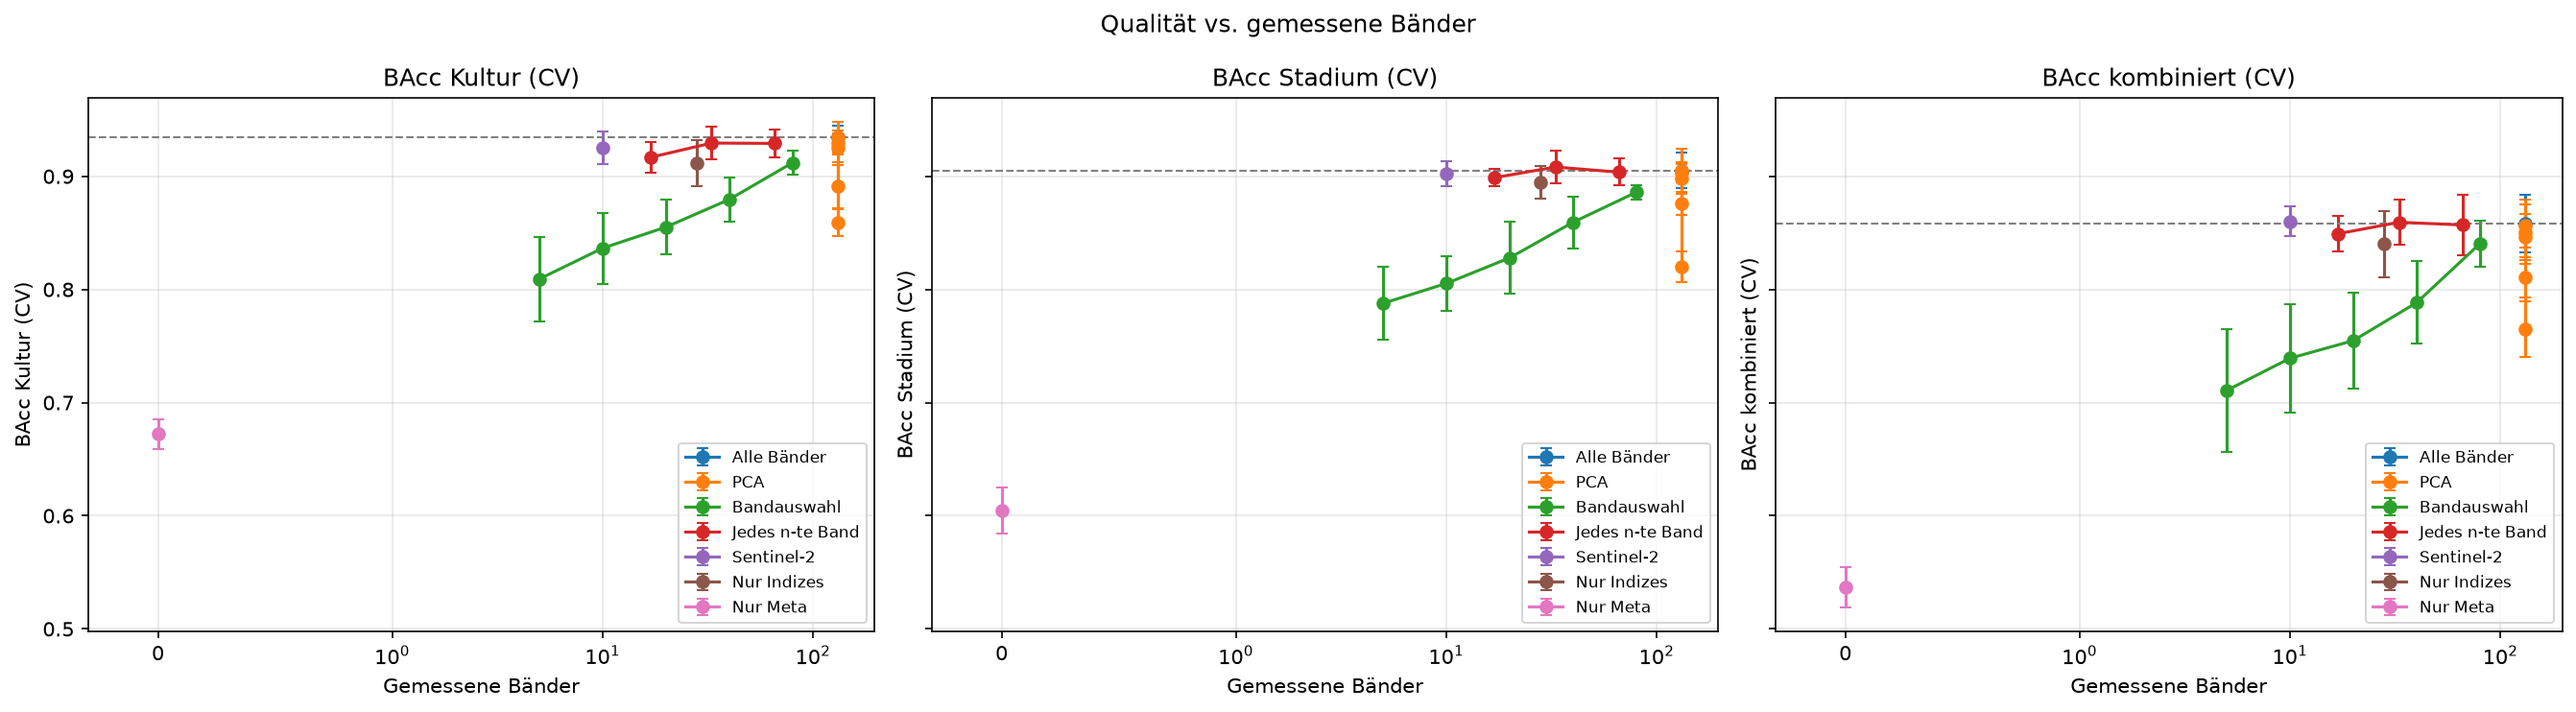
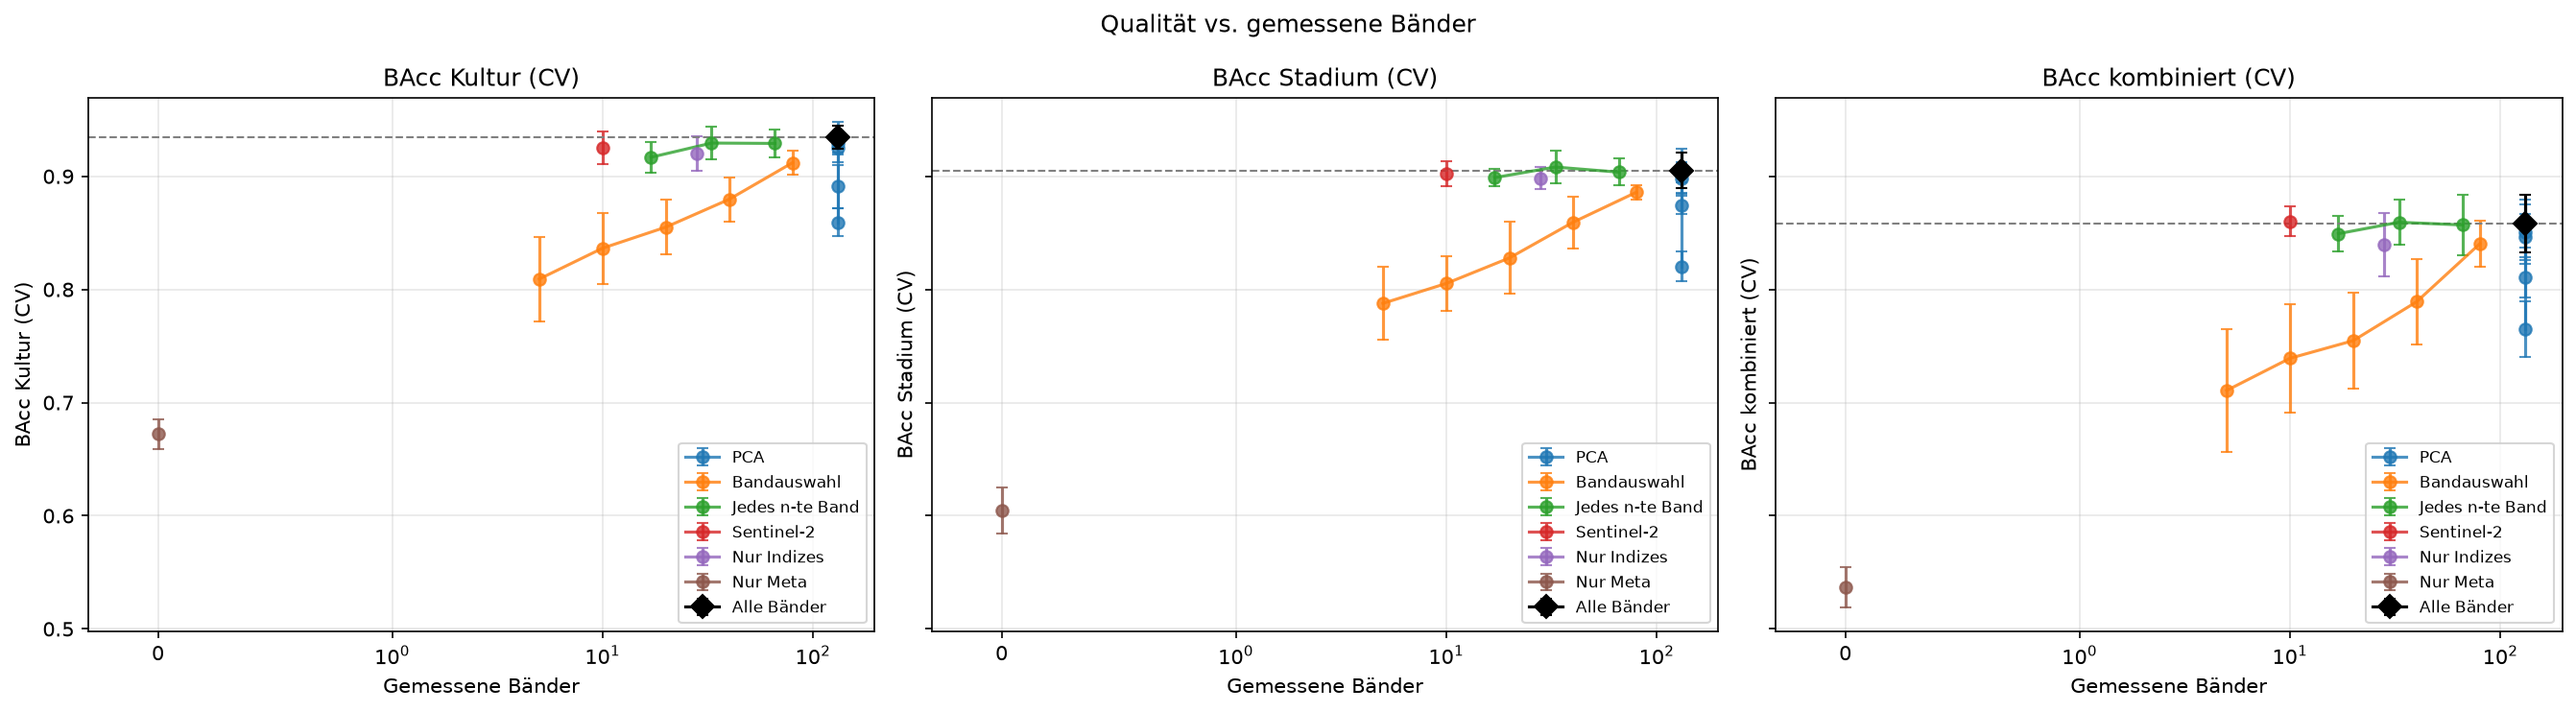
docs: write data reduction chapter of the final report (#227)
Refs #36

## Was
- Kapitel 5 „Datenreduktion“: Vorgehen (gemessene Bänder vs. Merkmale
vs. PCA-Komponenten, sieben Varianten, Auswahlregel), Ergebnisse
(Trade-off-Kurve, Holdout-Tabelle kombiniert + hierarchisch,
PCA-Studie), Bewertung und Grenzen (simuliertes Sentinel-2, Gruppen-CV)
- Quellen Pearlman et al. 2001, ESA SentiWiki

## Review-Hinweis
- **Nach #225 mergen:** Verweise auf `sec:evaluation`, `sec:daten` und
`aneece2018` kommen aus #225 – vorher „??“ im PDF. Das Label
`sec:datenreduktion` ist dafür aus #225 entfernt, beide mergen
konfliktfrei.
- Eingechecktes PDF ist nicht neu gebaut (nach dem Merge einmal
`latexmk`).

diff --git a/reports/abschlussbericht/abschlussbericht.tex b/reports/abschlussbericht/abschlussbericht.tex
@@ -506,14 +506,225 @@ nicht als unabh\"angig belegte Verbesserung oder neues Abgabemodell.
 % der AutoML-Gewinner (Run c99e3915, 0,883) ist als zweites Modell eingefroren.
 
 \section{Datenreduktion}
-% Vollst\"andigen Input und ausgew\"ahlte reduzierte Varianten vergleichen.
-% Anzahl der Eingabeb\"ander, abgeleiteten Features und PCA-Komponenten klar
-% unterscheiden: weniger Komponenten bedeuten nicht weniger ben\"otigte B\"ander.
-% Auswahlverfahren und Einbettung in die Trainingspipeline dokumentieren.
-% Leistung gegen Eingabeumfang als Tabelle oder Plot zeigen, mit gleicher
-% Evaluationsgrundlage; gegebenenfalls Laufzeit und Speicherbedarf erg\"anzen.
-% Den Trade-off bewerten: Welche Reduktion ist bei welchem Leistungsverlust
-% vertretbar? Schlussfolgerungen auf die tats\"achlich gepr\"uften Varianten begrenzen.
+\label{sec:datenreduktion}
+
+Die Datenreduktionsstudie fragt, wie viel spektraler Input f\"ur Kulturart
+und Stadium n\"otig ist. Untersucht wird sie am besten Modell, der RBF-SVM
+auf der kombinierten Klasse, und gegengepr\"uft an der hierarchischen SVM.
+Alle Zahlen sind kombinierte BAcc nach dem Protokoll aus
+Abschnitt~\ref{sec:evaluation}.
+
+\subsection{Vorgehen}
+
+\paragraph{B\"ander, Merkmale und Komponenten.}
+Die Studie unterscheidet drei Gr\"o\ss en. \emph{Gemessene B\"ander} sind
+die B\"ander, die ein Sensor liefern muss. \emph{Merkmale} sind die Spalten,
+die das Modell sieht, einschlie\ss{}lich AEZ und Monat. \emph{Komponenten}
+sind die Achsen einer PCA. Eine PCA verringert nur die Zahl der Merkmale:
+Ihre Komponenten werden aus allen 131 B\"andern berechnet, die weiterhin
+gemessen werden m\"ussen. Bewertet wird die Reduktion deshalb nach
+gemessenen B\"andern.
+
+\paragraph{Varianten.}
+Tabelle~\ref{tab:reduktion-varianten} zeigt die gepr\"uften Familien.
+Ausgew\"ahlt wird entweder durch Lage im Spektrum oder datengetrieben.
+Die Sentinel-2-Variante bildet die zehn 10- und 20-m-B\"ander von
+Sentinel-2 (B2--B8A, B11, B12) nach. Jedes simulierte Band ist der
+Mittelwert der Hyperion-B\"ander innerhalb seiner Bandbreite
+(Rechteckn\"aherung).
+
+\begin{table}[htbp]
+\centering
+\caption{Gepr\"ufte Eingabevarianten der Datenreduktion.}
+\label{tab:reduktion-varianten}
+\small
+\begin{tabularx}{\linewidth}{@{}lXr@{}}
+	\toprule
+	Familie & Varianten & Gemessene B\"ander \\
+	\midrule
+	Alle B\"ander & Referenz & 131 \\
+	PCA & 2, 5, 10, 20, 40 Komponenten; Zusatzstudie 1--80 & 131 \\
+	Univariate Bandauswahl & 5, 10, 20, 40, 80 B\"ander & 5--80 \\
+	Jedes $n$-te Band & $n = 2, 4, 8$ & 66, 33, 17 \\
+	Sentinel-2-Simulation & 10 Oberfl\"achenb\"ander & 10 \\
+	Nur Indizes & 29 Vegetationsindizes & 28 \\
+	Nur Kontext & AEZ und Monat & 0 \\
+	\bottomrule
+\end{tabularx}
+\end{table}
+
+\paragraph{Einbettung und Auswahlregel.}
+Jede Variante ist eine Option der gemeinsamen Vorverarbeitung. PCA und
+Bandauswahl werden innerhalb der Pipeline nur auf dem jeweiligen
+Trainingsfold angepasst. AEZ und Monat sind au\ss{}er in der
+Kontext-Variante immer enthalten. Jede Variante wird mit demselben Raster
+f\"ur $C$ und $\gamma$ eigenst\"andig per CV getunt. Die Auswahlregel war
+vorab festgelegt: Gew\"ahlt wird die Variante mit den wenigsten gemessenen
+B\"andern, die h\"ochstens 0,01 CV-BAcc unter der Referenz liegt. Nur diese
+Variante wird einmal auf dem Holdout bewertet.
+
+\subsection{Ergebnisse}
+
+\begin{figure}[htbp]
+\centering
+\includegraphics[width=\linewidth]{datenreduktion_tradeoff_baender.png}
+\caption{CV-BAcc f\"ur Kulturart, Stadium und kombinierte Klasse je Anzahl
+gemessener B\"ander (logarithmische Achse; Fehlerbalken: Standardabweichung
+\"uber die f\"unf Folds). Schwarze Raute und gestrichelte Linie: alle
+131 B\"ander. PCA-Varianten liegen immer bei 131 B\"andern.}
+\label{fig:reduktion-tradeoff}
+\end{figure}
+
+\paragraph{Breite Abdeckung reicht.}
+Abbildung~\ref{fig:reduktion-tradeoff} zeigt den Zusammenhang zwischen
+Leistung und Eingabeumfang. Gleichm\"a\ss{}ig verteilte B\"ander halten die
+Leistung fast vollst\"andig: Mit jedem vierten Band (33 B\"ander) liegt die
+CV-BAcc bei 0,859, mit jedem achten Band (17) bei 0,849. Die zehn
+Sentinel-2-B\"ander erreichen 0,860, genauso viel wie alle 131 B\"ander
+(0,859). Nach der Auswahlregel ist Sentinel-2 damit die empfohlene Variante.
+
+\paragraph{Einzelne \glqq beste\grqq{} B\"ander reichen nicht.}
+Die univariate Bandauswahl erreicht mit zehn B\"andern nur 0,739 und selbst
+mit 80 B\"andern nur 0,841. Sie bewertet jedes Band einzeln. Deshalb w\"ahlt
+sie benachbarte, nahezu identische B\"ander aus derselben Region und l\"asst
+andere Bereiche aus. Eine Bandauswahl getrennt je Ebene des hierarchischen
+Modells hilft nicht: Bei zehn B\"andern je Ebene umfasst die Vereinigung
+schon 52 B\"ander, und die BAcc bleibt bei etwa 0,69.
+Fachlich ist das plausibel, denn jede Ebene greift auf eine andere Region
+zur\"uck. Die Kulturebene nutzt die Chlorophyllabsorption im Rot, das
+Stadium von Mais und Baumwolle das NIR-Plateau und das von Soja und
+Winterweizen das SWIR2, wo Trocknung und Lignin bei der Reife sichtbar
+werden. Ein Sensor mit Messungen von VIS bis SWIR2 deckt alle diese Regionen
+ab.
+
+\paragraph{Kontext und Indizes.}
+AEZ und Monat allein erreichen nur 0,537 und ersetzen die Spektren nicht.
+Ohne sie f\"allt die SVM aber auf 0,787, sie sind also unverzichtbar.
+Mittlere Albedo oder vorab berechnete Hauptkomponenten bringen nichts
+zus\"atzlich. Die 29 Indizes allein erreichen 0,840.
+Wie n\"utzlich sie sind, h\"angt vom Modell ab. Die SVM gewinnt durch
+zus\"atzliche Indizes nichts (0,848 statt 0,859). Extra Trees,
+HistGradientBoosting und die logistische Regression verbessern sich dagegen
+um 0,015 bis 0,029, weil sie aus einzelnen B\"andern kein Verh\"altnis
+bilden. Sie bleiben trotzdem mindestens 0,03 hinter der SVM.
+
+\paragraph{Validierung.}
+Tabelle~\ref{tab:reduktion-validierung} vergleicht die nach der Regel
+gew\"ahlten Varianten auf dem Holdout. Bei der kombinierten SVM verlieren
+die zehn Sentinel-2-B\"ander 0,009 kombinierte BAcc bei 92\,\% weniger
+gemessenen B\"andern. Die Kulturart wird sogar besser erkannt, das Stadium
+etwas schlechter. Hierarchisch ist das Bild \"ahnlich. Sentinel-2 lag dort
+in der CV knapp au\ss{}erhalb der Regel ($-0{,}012$), wurde aber zum
+Vergleich mitbewertet.
+
+\begin{table}[htbp]
+\centering
+\caption{Holdout-Ergebnisse der gew\"ahlten Varianten (BAcc; CV: kombiniert
+im Trainingsanteil).}
+\label{tab:reduktion-validierung}
+\small
+\begin{tabularx}{\linewidth}{@{}lXrrrrr@{}}
+	\toprule
+	Ansatz & Eingabe & B\"ander & CV & Kultur & Stadium & Kombiniert \\
+	\midrule
+	Kombiniert & alle B\"ander & 131 & 0,859 & 0,920 & 0,913 & \textbf{0,866} \\
+	Kombiniert & Sentinel-2 & 10 & 0,860 & 0,931 & 0,905 & 0,857 \\
+	\midrule
+	Hierarchisch & alle B\"ander & 131 & 0,846 & 0,918 & 0,905 & \textbf{0,845} \\
+	Hierarchisch & jedes 8.~Band & 17 & 0,839 & 0,920 & 0,910 & 0,828 \\
+	Hierarchisch & Sentinel-2 & 10 & 0,834 & 0,930 & 0,884 & 0,839 \\
+	\bottomrule
+\end{tabularx}
+\end{table}
+
+Der Macro-F1 kombiniert f\"allt mit Sentinel-2 deutlich st\"arker als die
+BAcc, von 0,859 auf 0,813. Der Recall bleibt etwa gleich, aber seltene
+Klassen werden h\"aufiger f\"alschlich vorhergesagt. So sinkt die Precision
+von \texttt{cotton|Harvest} von 1,00 auf 0,40. Bei nur 2 bis 13
+Holdout-Beispielen in diesen Klassen ist dieser Effekt unsicher, schr\"ankt
+die Empfehlung aber ein.
+
+\paragraph{PCA.}
+Eine Zusatzstudie variiert die Zahl der Komponenten von 1 bis 80, jeweils
+mit eigenem Tuning und im Fold angepasster PCA
+(Abbildung~\ref{fig:reduktion-pca}). Bis f\"unf Komponenten f\"allt die
+Leistung steil ab. Ab acht Komponenten liegt sie innerhalb der Auswahlregel
+(0,851). Innerhalb von $\pm 0{,}005$ um die Referenz liegt sie aber erst ab
+30 Komponenten. Hohe erkl\"arte Varianz bedeutet dabei keine Trennkraft:
+Zwei Komponenten erkl\"aren 91,8\,\% der Varianz und verlieren trotzdem
+0,093. Sie bilden vor allem den Kontrast zwischen Vegetation und Boden
+sowie die Helligkeit ab. Die f\"ur die SVM wichtigen Red-Edge-Merkmale
+tauchen erst in der vierten Komponente auf, die nur 1,1\,\% der Varianz
+erkl\"art.
+
+PCA reduziert die Merkmale der SVM von 140 auf 17, beschleunigt Training
+und Vorhersage aber nur um etwa den Faktor 1,3. Dabei m\"ussen weiterhin
+alle B\"ander gemessen werden. Nur die logistische Regression profitiert:
+Mit 20 Komponenten erreicht sie 0,820 statt 0,808 und ist etwa zw\"olfmal
+schneller. Auch auf den Sentinel-2-B\"andern bringt PCA keinen Vorteil. Vorab
+war festgelegt, die PCA-Variante nur dann zu validieren, wenn sie mindestens
+0,005 besser oder doppelt so schnell ist. Beides trifft nicht zu, daher gibt
+es keinen Holdout-Wert.
+
+\begin{figure}[htbp]
+\centering
+\includegraphics[width=0.85\linewidth]{pca_studie_kurve.png}
+\caption{Kombinierte SVM: CV-BAcc je Anzahl PCA-Komponenten (Band:
+Standardabweichung \"uber die Folds) und kumulierte erkl\"arte Varianz
+(grau, rechte Achse). Gestrichelt: alle B\"ander ohne PCA mit
+$\pm 0{,}005$.}
+\label{fig:reduktion-pca}
+\end{figure}
+
+\subsection{Bewertung und Grenzen}
+
+\paragraph{Trade-off.}
+Zehn breite B\"ander an Sentinel-2-Positionen plus AEZ und Monat sind eine
+vertretbare Reduktion. Sie kosten auf dem Holdout 0,009 kombinierte BAcc und
+deutlich mehr Macro-F1 in seltenen Klassen. Daf\"ur m\"ussen 92\,\% weniger
+B\"ander gemessen werden. Wichtiger als hohe spektrale Aufl\"osung ist die
+Abdeckung aller Bereiche von VIS bis SWIR2. Die univariate Bandauswahl ist
+nicht vertretbar, und PCA lohnt sich f\"ur die SVM nicht. In der Challenge
+liegen alle B\"ander bereits vor, Messkosten spielen also keine Rolle.
+Das Endmodell nutzt deshalb weiterhin alle B\"ander.
+
+\paragraph{Simulierte statt echter Sentinel-2-Daten.}
+Gezeigt ist nur, dass die spektrale Information an den
+Sentinel-2-Positionen auf Hyperion-Daten ausreicht. Ob ein auf Hyperion
+trainiertes Modell auf echten Sentinel-2-Aufnahmen funktioniert, ist nicht
+gepr\"uft. Daf\"ur unterscheiden sich die Daten in mehreren Punkten:
+\begin{itemize}
+	\item \textbf{Bandform:} Die Simulation n\"ahert die gemessenen
+	Empfindlichkeitskurven von Sentinel-2 durch Rechtecke an.
+	\item \textbf{R\"aumliche Aufl\"osung:} Hyperion misst mit 30\,m,
+	Sentinel-2 mit 10 bzw.\ 20\,m.
+	\item \textbf{Rauschen:} Das Signal-Rausch-Verh\"altnis von Hyperion
+	liegt bei 2125\,nm bei etwa 40 und das von Sentinel-2 im SWIR bei etwa
+	100~\cite{pearlman2001,esa_s2}. Die simulierten B\"ander erben das
+	Hyperion-Rauschen, mitteln es aber.
+	\item \textbf{Prozessierung:} Die Daten wurden mit einer anderen
+	Atmosph\"arenkorrektur prozessiert und zus\"atzlich gegl\"attet
+	\cite{aneece2018}.
+	\item \textbf{Zeitraum:} Die zugrunde liegende Bibliothek GHISACONUS
+	(Abschnitt~\ref{sec:daten}) enth\"alt Aufnahmen aus den Jahren 2008 bis
+	2015 \cite{aneece2018}. Sie \"uberschneiden sich zeitlich kaum mit
+	Sentinel-2, gelabelte Paare gibt es daher nicht.
+\end{itemize}
+Kontrollexperimente sind geplant, aber nicht ausgewertet. Sie sollen
+pr\"ufen, ob das Ergebnis an der Lage, der Breite oder nur an der Abdeckung
+der B\"ander liegt (echte Empfindlichkeitskurven, n\"achste Einzelb\"ander,
+zuf\"allige und gleichm\"a\ss{}ige B\"ander, Verschiebung und Rauschen).
+
+\paragraph{Unbekannte Aufnahmen.}
+Alle Werte gelten f\"ur bekannte Kontextgruppen. In der Gruppen-CV
+(Abschnitt~\ref{sec:evaluation}) erreicht die kombinierte SVM f\"ur eine
+unbekannte AEZ-Monat-Zelle 0,378, f\"ur einen unbekannten Monat 0,421 und
+f\"ur eine unbekannte Region 0,284. Mit Sentinel-2 sind die Werte
+gleichauf (0,389, 0,419, 0,274). Die hierarchische SVM mit Sentinel-2 ist
+dort am robustesten (0,426, 0,424, 0,294). Die Reduktion verschlechtert die
+\"Ubertragbarkeit also nicht, l\"ost das Problem aber auch nicht. Ein anderer
+Sensor ist eine mindestens ebenso gro\ss e Verschiebung wie eine neue
+Aufnahme.
 
 \section{Ergebnisse und Interpretation}
 
@@ -581,6 +792,17 @@ Twenty five years of remote sensing in precision agriculture:
 Key advances and remaining knowledge gaps.
 \emph{Biosystems Engineering}, 114(4), 358--371.
 \url{https://doi.org/10.1016/j.biosystemseng.2012.08.009}.
+
+\bibitem{pearlman2001}
+Pearlman, J., Segal, C., Clancy, P. et al. (2001).
+\emph{The EO-1 Hyperion Imaging Spectrometer.}
+IEEE Aerospace Conference (Foliensatz).
+\url{https://www.ugpti.org/smartse/research/citations/downloads/Pearlman-Hyperion_IEEE-2001.pdf}.
+
+\bibitem{esa_s2}
+ESA (o.\,J.).
+\emph{S2 Mission.} SentiWiki, Copernicus.
+\url{https://sentiwiki.copernicus.eu/web/s2-mission}.
 
 \bibitem{nasa2025}
 NASA (2025).

diff --git a/src/awp2/plots/reduction.py b/src/awp2/plots/reduction.py
@@ -16,6 +16,7 @@ from awp2.config import (
     REDUCTION_FAMILY_COL,
     REDUCTION_FAMILY_LABELS,
     REDUCTION_MAX_CV_LOSS,
+    REDUCTION_REFERENCE_FAMILY,
     STD_SUFFIX,
 )
 from awp2.data import wavelength
@@ -43,7 +44,9 @@ def plot_tradeoff(
     """
     if ax is None:
         _, ax = plt.subplots(figsize=(10, 5))
-    for family, rows in curve.groupby(REDUCTION_FAMILY_COL, sort=False):
+    is_reference = curve[REDUCTION_FAMILY_COL] == REDUCTION_REFERENCE_FAMILY
+    # the reference shares its band count with every PCA variant, so it goes on top
+    for family, rows in curve[~is_reference].groupby(REDUCTION_FAMILY_COL, sort=False):
         rows = rows.sort_values(x)
         ax.errorbar(
             rows[x],
@@ -51,9 +54,22 @@ def plot_tradeoff(
             yerr=rows[f"{metric}{STD_SUFFIX}"],
             marker="o",
             capsize=3,
+            alpha=0.8,
             label=REDUCTION_FAMILY_LABELS.get(str(family), str(family)),
         )
-    reference = curve.loc[curve[REDUCTION_FAMILY_COL] == "all_bands", metric]
+    reference_rows = curve[is_reference]
+    ax.errorbar(
+        reference_rows[x],
+        reference_rows[metric],
+        yerr=reference_rows[f"{metric}{STD_SUFFIX}"],
+        marker="D",
+        markersize=8,
+        color="black",
+        capsize=3,
+        zorder=5,
+        label=REDUCTION_FAMILY_LABELS[REDUCTION_REFERENCE_FAMILY],
+    )
+    reference = reference_rows[metric]
     if not reference.empty:
         ax.axhline(reference.iloc[0], color="grey", linestyle="--", linewidth=1)
     # metadata-only has zero bands, which a plain log axis cannot show

diff --git a/src/awp2/config.py b/src/awp2/config.py
@@ -484,6 +484,7 @@ DOWNLOAD_TIMEOUT_S = 60
 ReductionFamily = Literal[
     "all_bands", "pca", "band_selection", "band_step", "sentinel2", "indices_only", "meta_only"
 ]
+REDUCTION_REFERENCE_FAMILY: ReductionFamily = "all_bands"
 REDUCTION_FAMILY_LABELS: dict[str, str] = {
     "all_bands": "Alle Bänder",
     "pca": "PCA",
